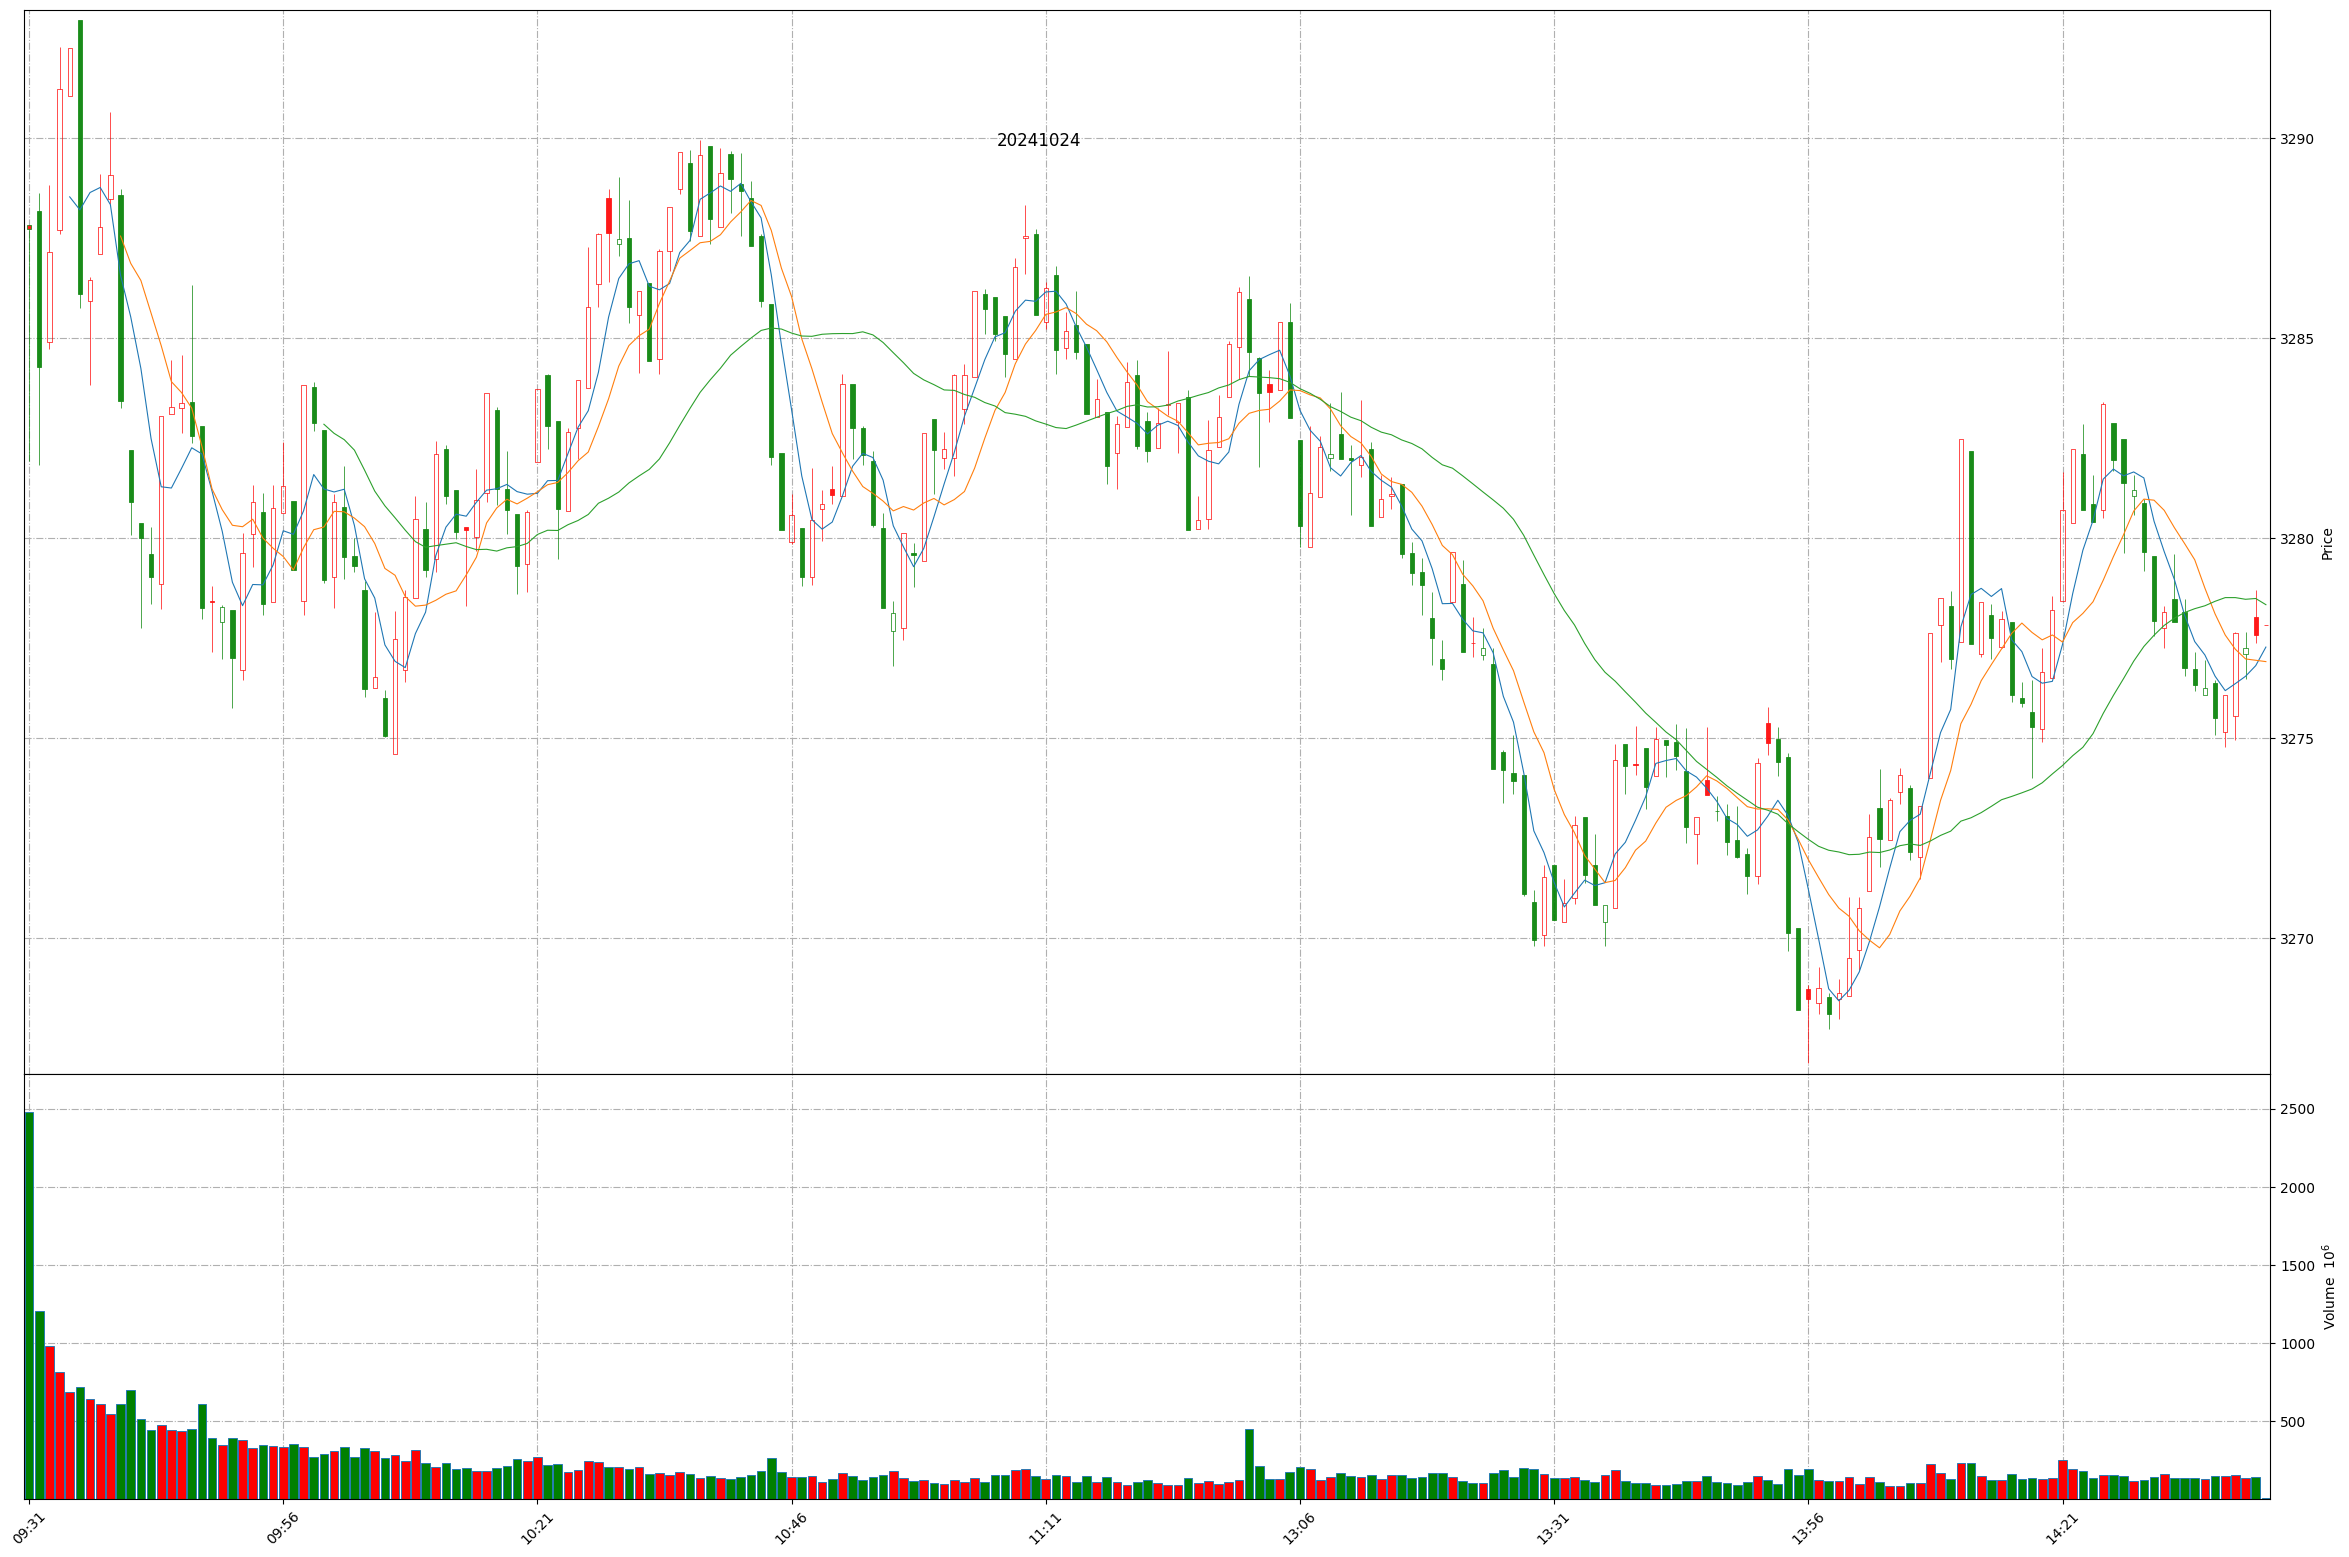
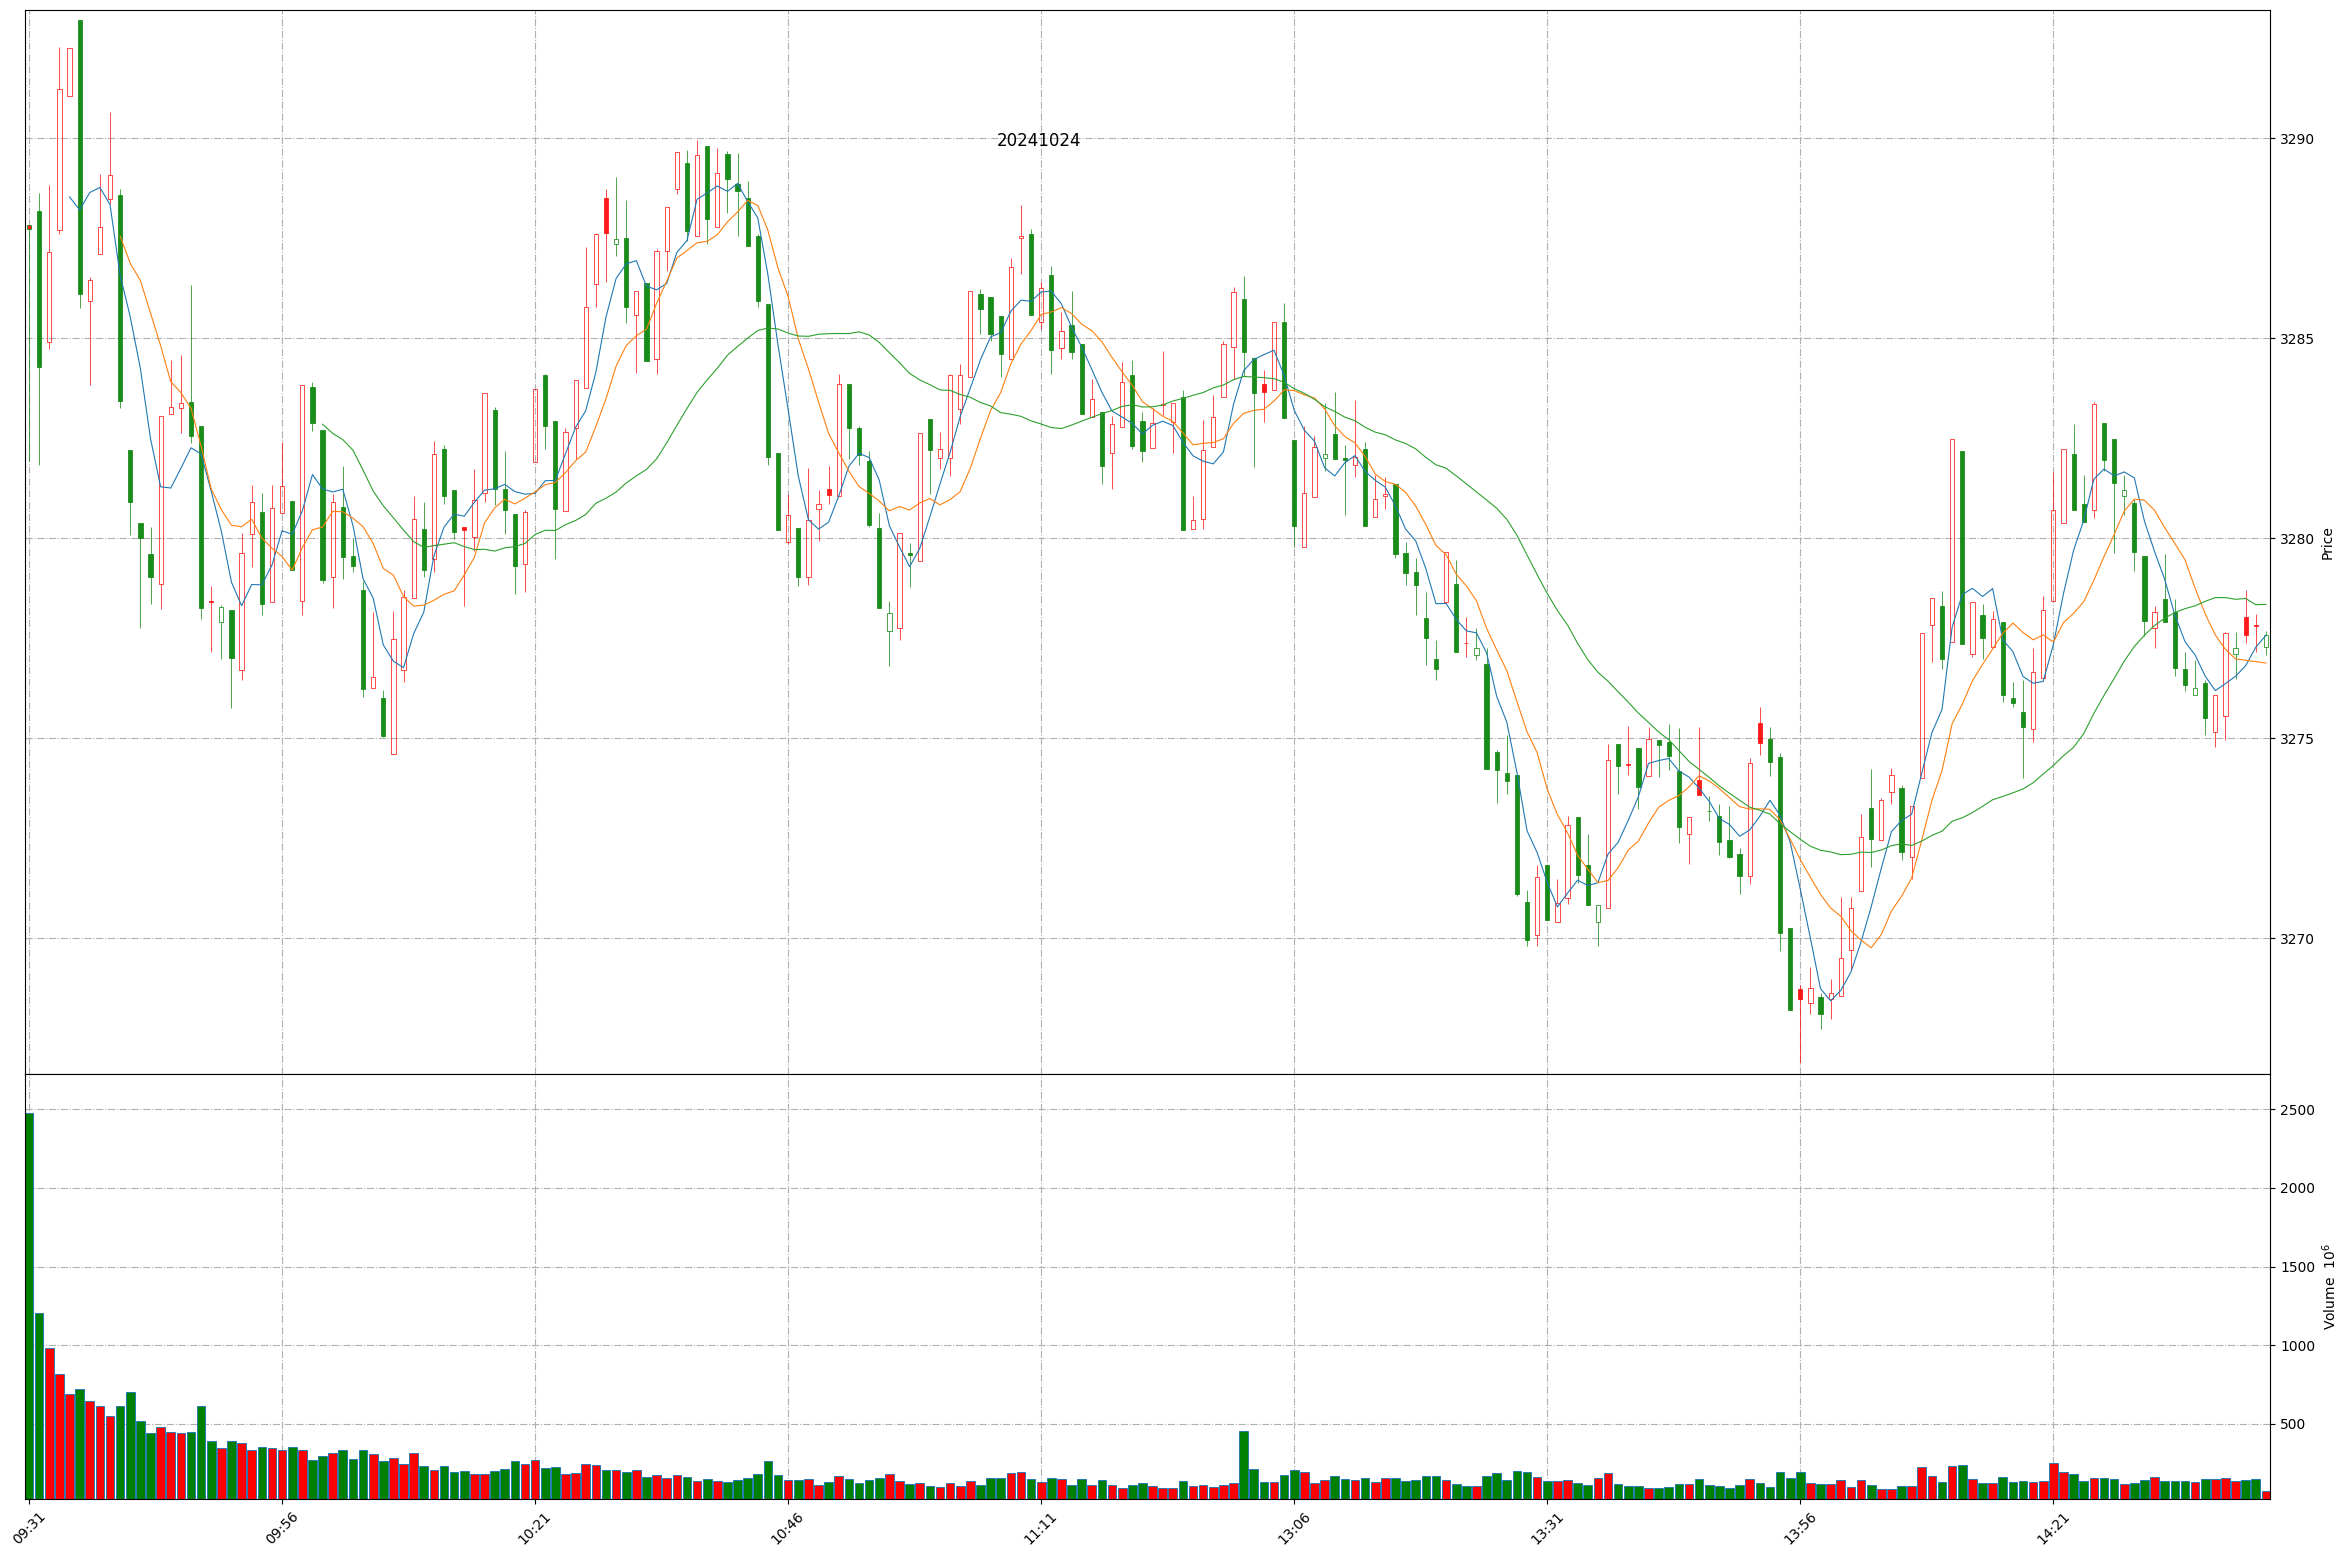
Github action update at 2024-10-24 14:41:44.

diff --git a/README.md b/README.md
@@ -1,11 +1,11 @@
 
 # Daily-A-share-market-quotes 每日 A 股指数（5min 更新）- 20241024
 
-### 上证指数 20241024 14:40
+### 上证指数 20241024 14:41
 ![](./fig/2024/10/20241024-sh000001.png)
 
-### 深证成指 20241024 14:40
+### 深证成指 20241024 14:41
 ![](./fig/2024/10/20241024-sz399001.png)
 
-### 北证50 20241024 14:40
+### 北证50 20241024 14:41
 ![](./fig/2024/10/20241024-bj899050.png)
